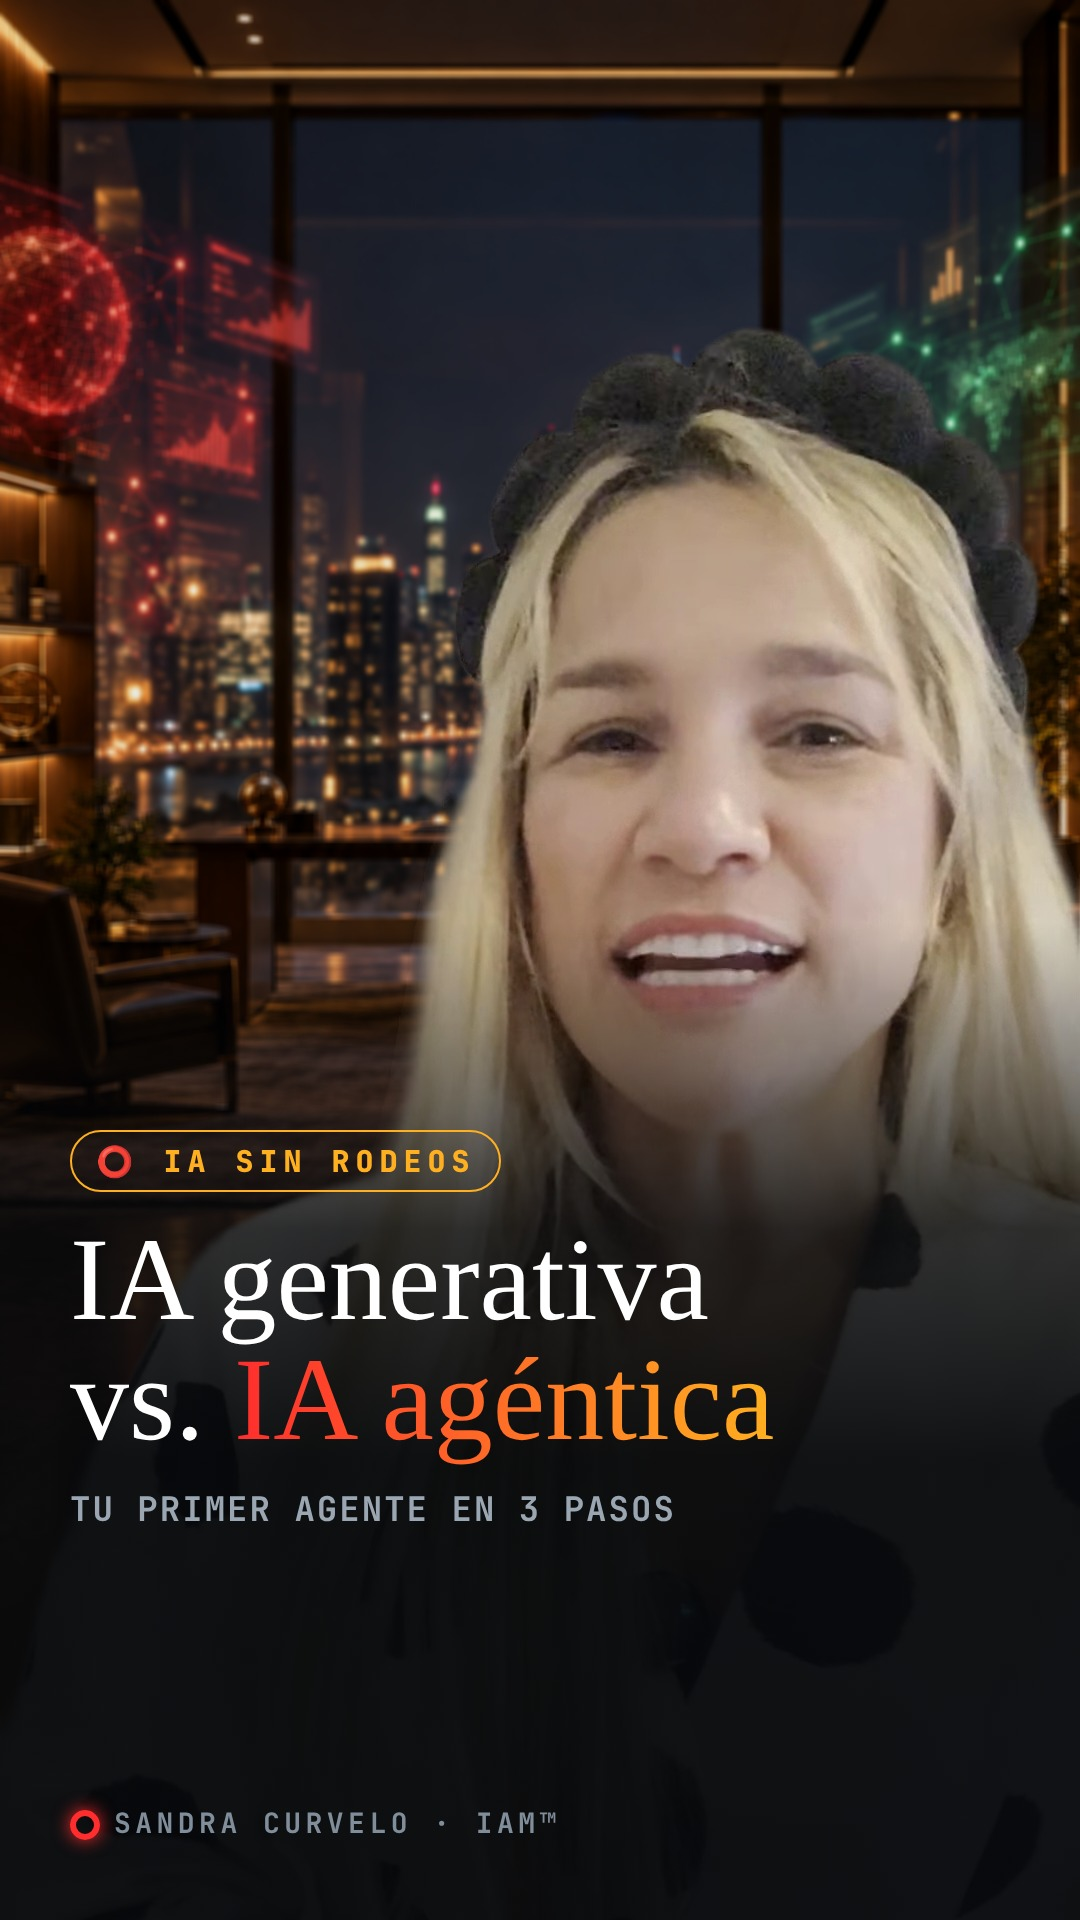
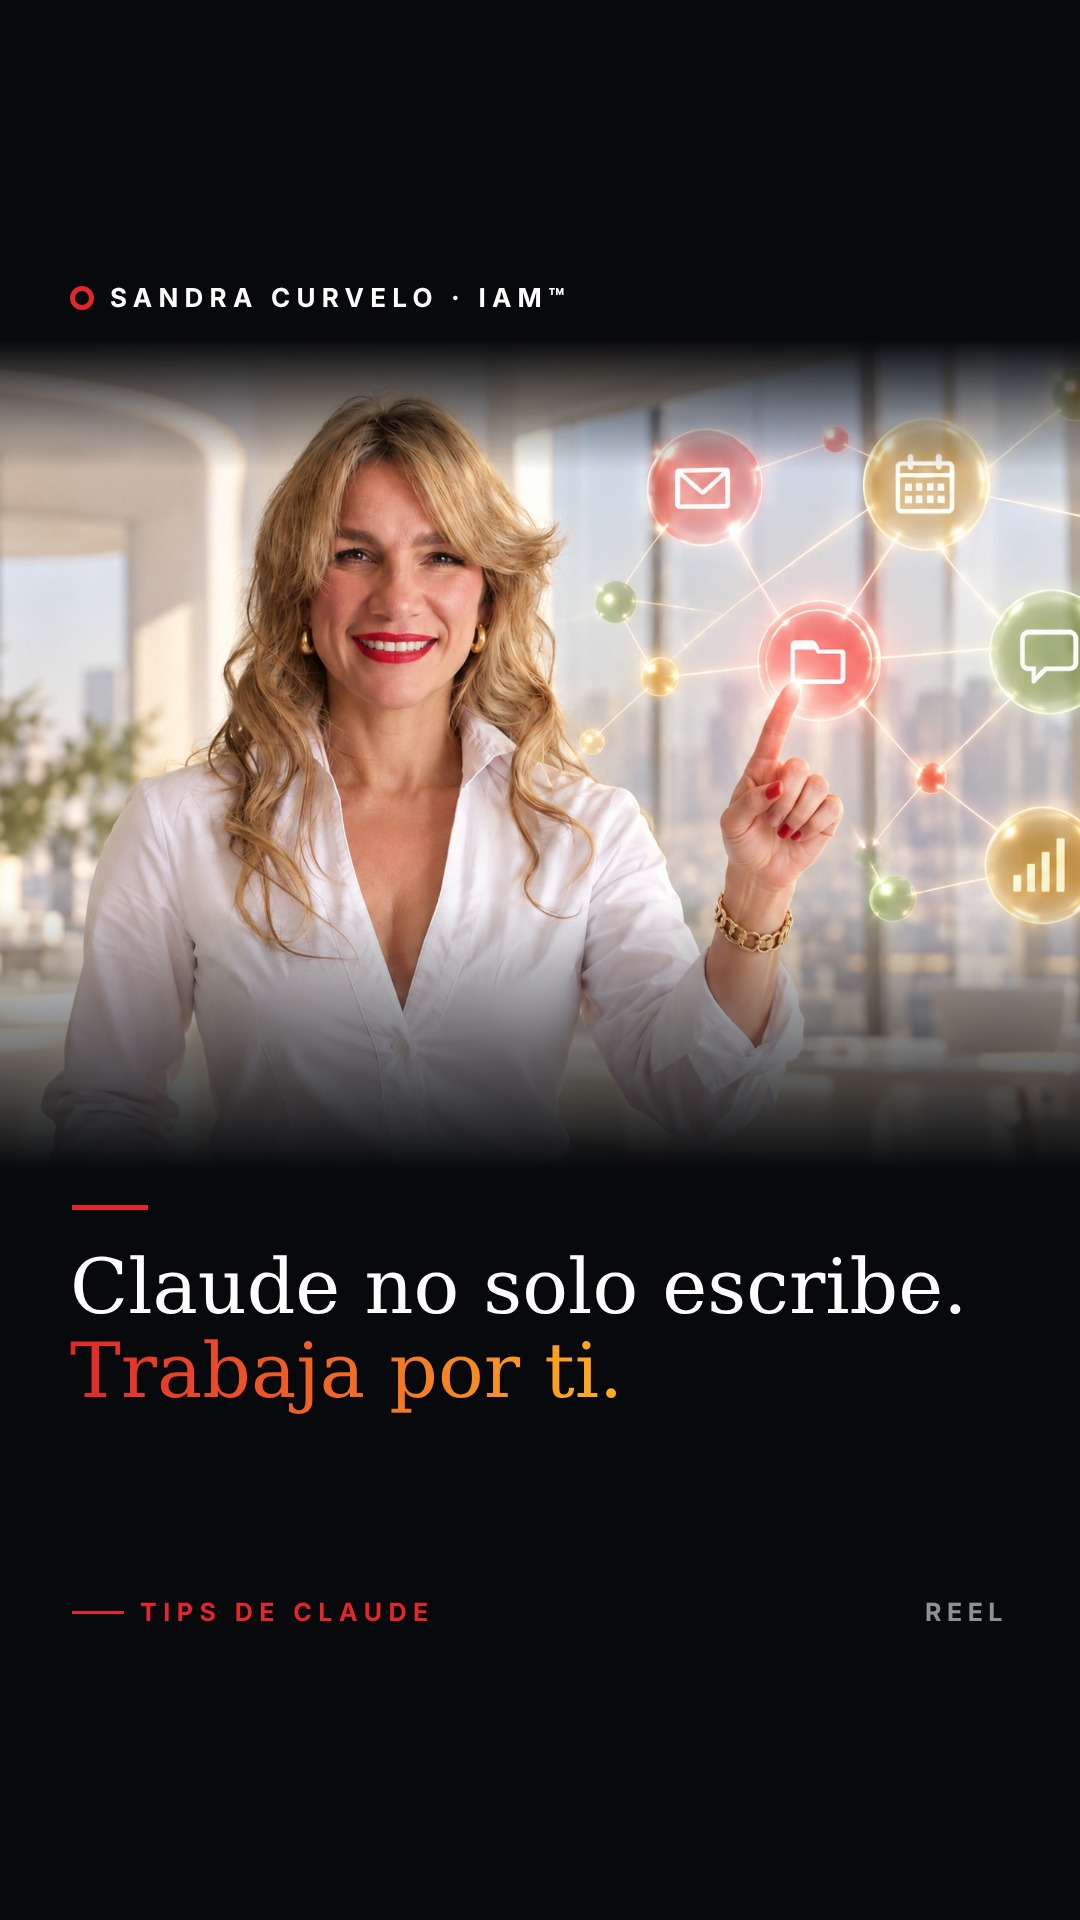
Portadas nuevas del feed (sistema de diseño aprobado por Sandra el 24 nov)
Claude-Session: https://claude.ai/code/session_01NfWH1YnxdbRLc9ZrUJbHYq

diff --git a/estrategia/instagram/diseno-feed/shot2.js b/estrategia/instagram/diseno-feed/shot2.js
@@ -1,0 +1,1 @@
+const {chromium}=require('playwright');(async()=>{const b=await chromium.launch();const p=await b.newPage({viewport:{width:1080,height:1920}});await p.goto('file://'+process.argv[2]+'/portadas.html');await p.waitForTimeout(600);for(const id of ['agentica','iae','matia','prospecta','alpina','udes','correo']){await p.locator('#'+id).screenshot({path:process.argv[2]+'/final_'+id+'.jpg',type:'jpeg',quality:92});}await b.close();})();

diff --git a/estrategia/instagram/diseno-feed/gen.py b/estrategia/instagram/diseno-feed/gen.py
@@ -1,0 +1,31 @@
+import sys
+P=[
+("agentica","conectores.jpg","dark","Claude no solo escribe.","Trabaja por ti.","Tips de Claude",(1250,0,50)),
+("iae","iae2.jpg","dark","¿Quién usa","de verdad la IA?","Método IAE™",(1000,0,50)),
+("matia","robot.jpg","light","Claude actualiza","mi CRM.","Tips de Claude · Demo simulada",(1450,0,62)),
+("prospecta","gorra.jpg","light","Claude prospecta.","Yo apruebo.","Tips de Claude · Demo simulada",(900,0,50)),
+("alpina","alpina.jpg","dark","No llames en frío.","Llega sabiendo.","Recuerdos",(1300,-540,50)),
+("udes","udes.jpg","light","No es interrupción.","Es intención.","Recuerdos",(1300,-430,58)),
+("correo","correo.jpg","dark","Claude lee mi correo.","Yo solo apruebo.","Tips de Claude · Demo simulada",(1000,0,50)),
+]
+css="""*{margin:0;padding:0;box-sizing:border-box}body{width:1080px}
+.c{position:relative;width:1080px;height:1920px;overflow:hidden;margin-bottom:10px}
+.ph{position:absolute;left:0;right:0;top:340px;height:830px;overflow:hidden}
+.ph img{position:absolute}
+.dark{background:#07090c;color:#fff}.light{background:#f4efe7;color:#111}
+.f{position:absolute;inset:0}
+.dark .f{background:linear-gradient(180deg,#07090c 340px,rgba(7,9,12,0) 470px,rgba(7,9,12,0) 900px,#07090c 1170px)}
+.light .f{background:linear-gradient(180deg,#f4efe7 340px,rgba(244,239,231,0) 470px,rgba(244,239,231,0) 900px,#f4efe7 1170px)}
+.b{position:absolute;top:285px;left:70px;font:700 26px/1 Inter,Arial,sans-serif;letter-spacing:.24em;text-transform:uppercase;display:flex;gap:16px;align-items:center}
+.r{width:24px;height:24px;border:5px solid #e3262b;border-radius:50%}
+.l{position:absolute;left:72px;top:1205px;width:76px;height:5px;background:#e3262b}
+.t{position:absolute;left:70px;right:70px;top:1245px;font:400 76px/1.1 Georgia,"DejaVu Serif",serif}
+.t em{font-style:normal;background:linear-gradient(90deg,#e3262b,#ffb020);-webkit-background-clip:text;background-clip:text;color:transparent}
+.g{position:absolute;left:72px;top:1600px;font:700 25px/1 Inter,Arial,sans-serif;letter-spacing:.26em;text-transform:uppercase;color:#e3262b;display:flex;gap:16px;align-items:center}
+.g:before{content:"";width:52px;height:3px;background:#e3262b}
+.k{position:absolute;right:72px;top:1600px;font:700 25px/1 Inter,Arial,sans-serif;letter-spacing:.22em;text-transform:uppercase;opacity:.55}
+"""
+h="<!doctype html><html><head><meta charset=utf-8><style>"+css+"</style></head><body>"
+for i,img,m,t,e,g,(w,off,lp) in P:
+    h+=f'<div class="c {m}" id="{i}"><div class="ph"><img src="{img}" style="width:{w}px;top:{off}px;left:calc({lp}% - {w*lp/100}px)"></div><div class="f"></div><div class="b"><span class="r"></span>Sandra Curvelo · IAM™</div><div class="l"></div><div class="t">{t}<br><em>{e}</em></div><div class="g">{g}</div><div class="k">Reel</div></div>'
+open(sys.argv[1],"w").write(h+"</body></html>")
